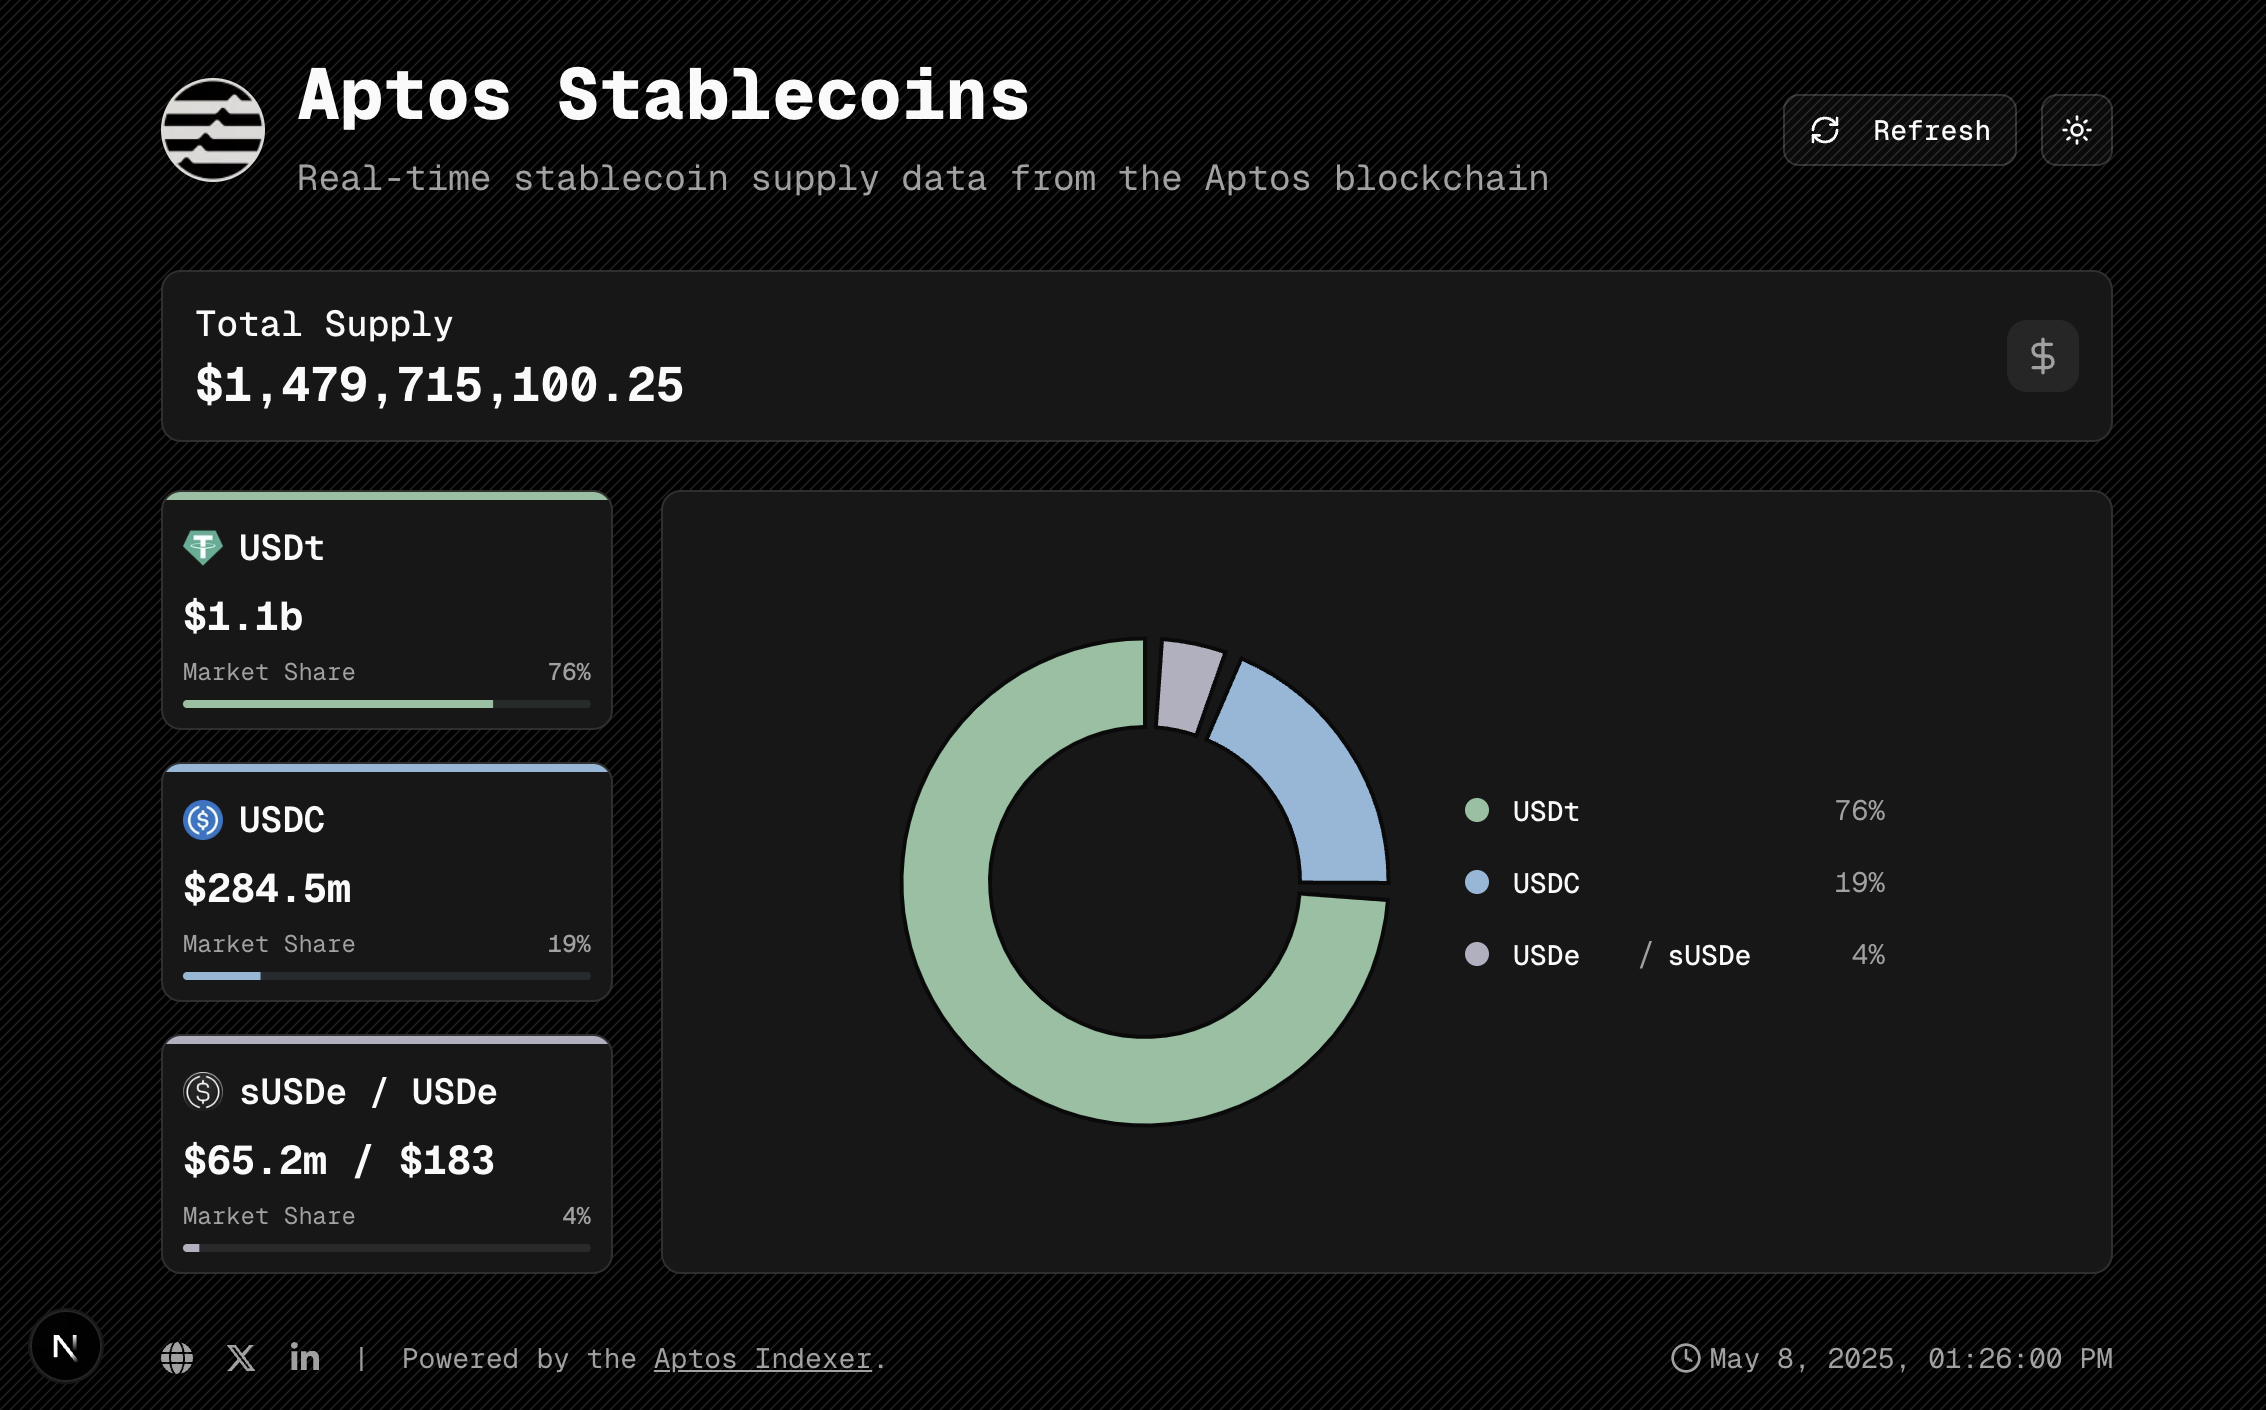
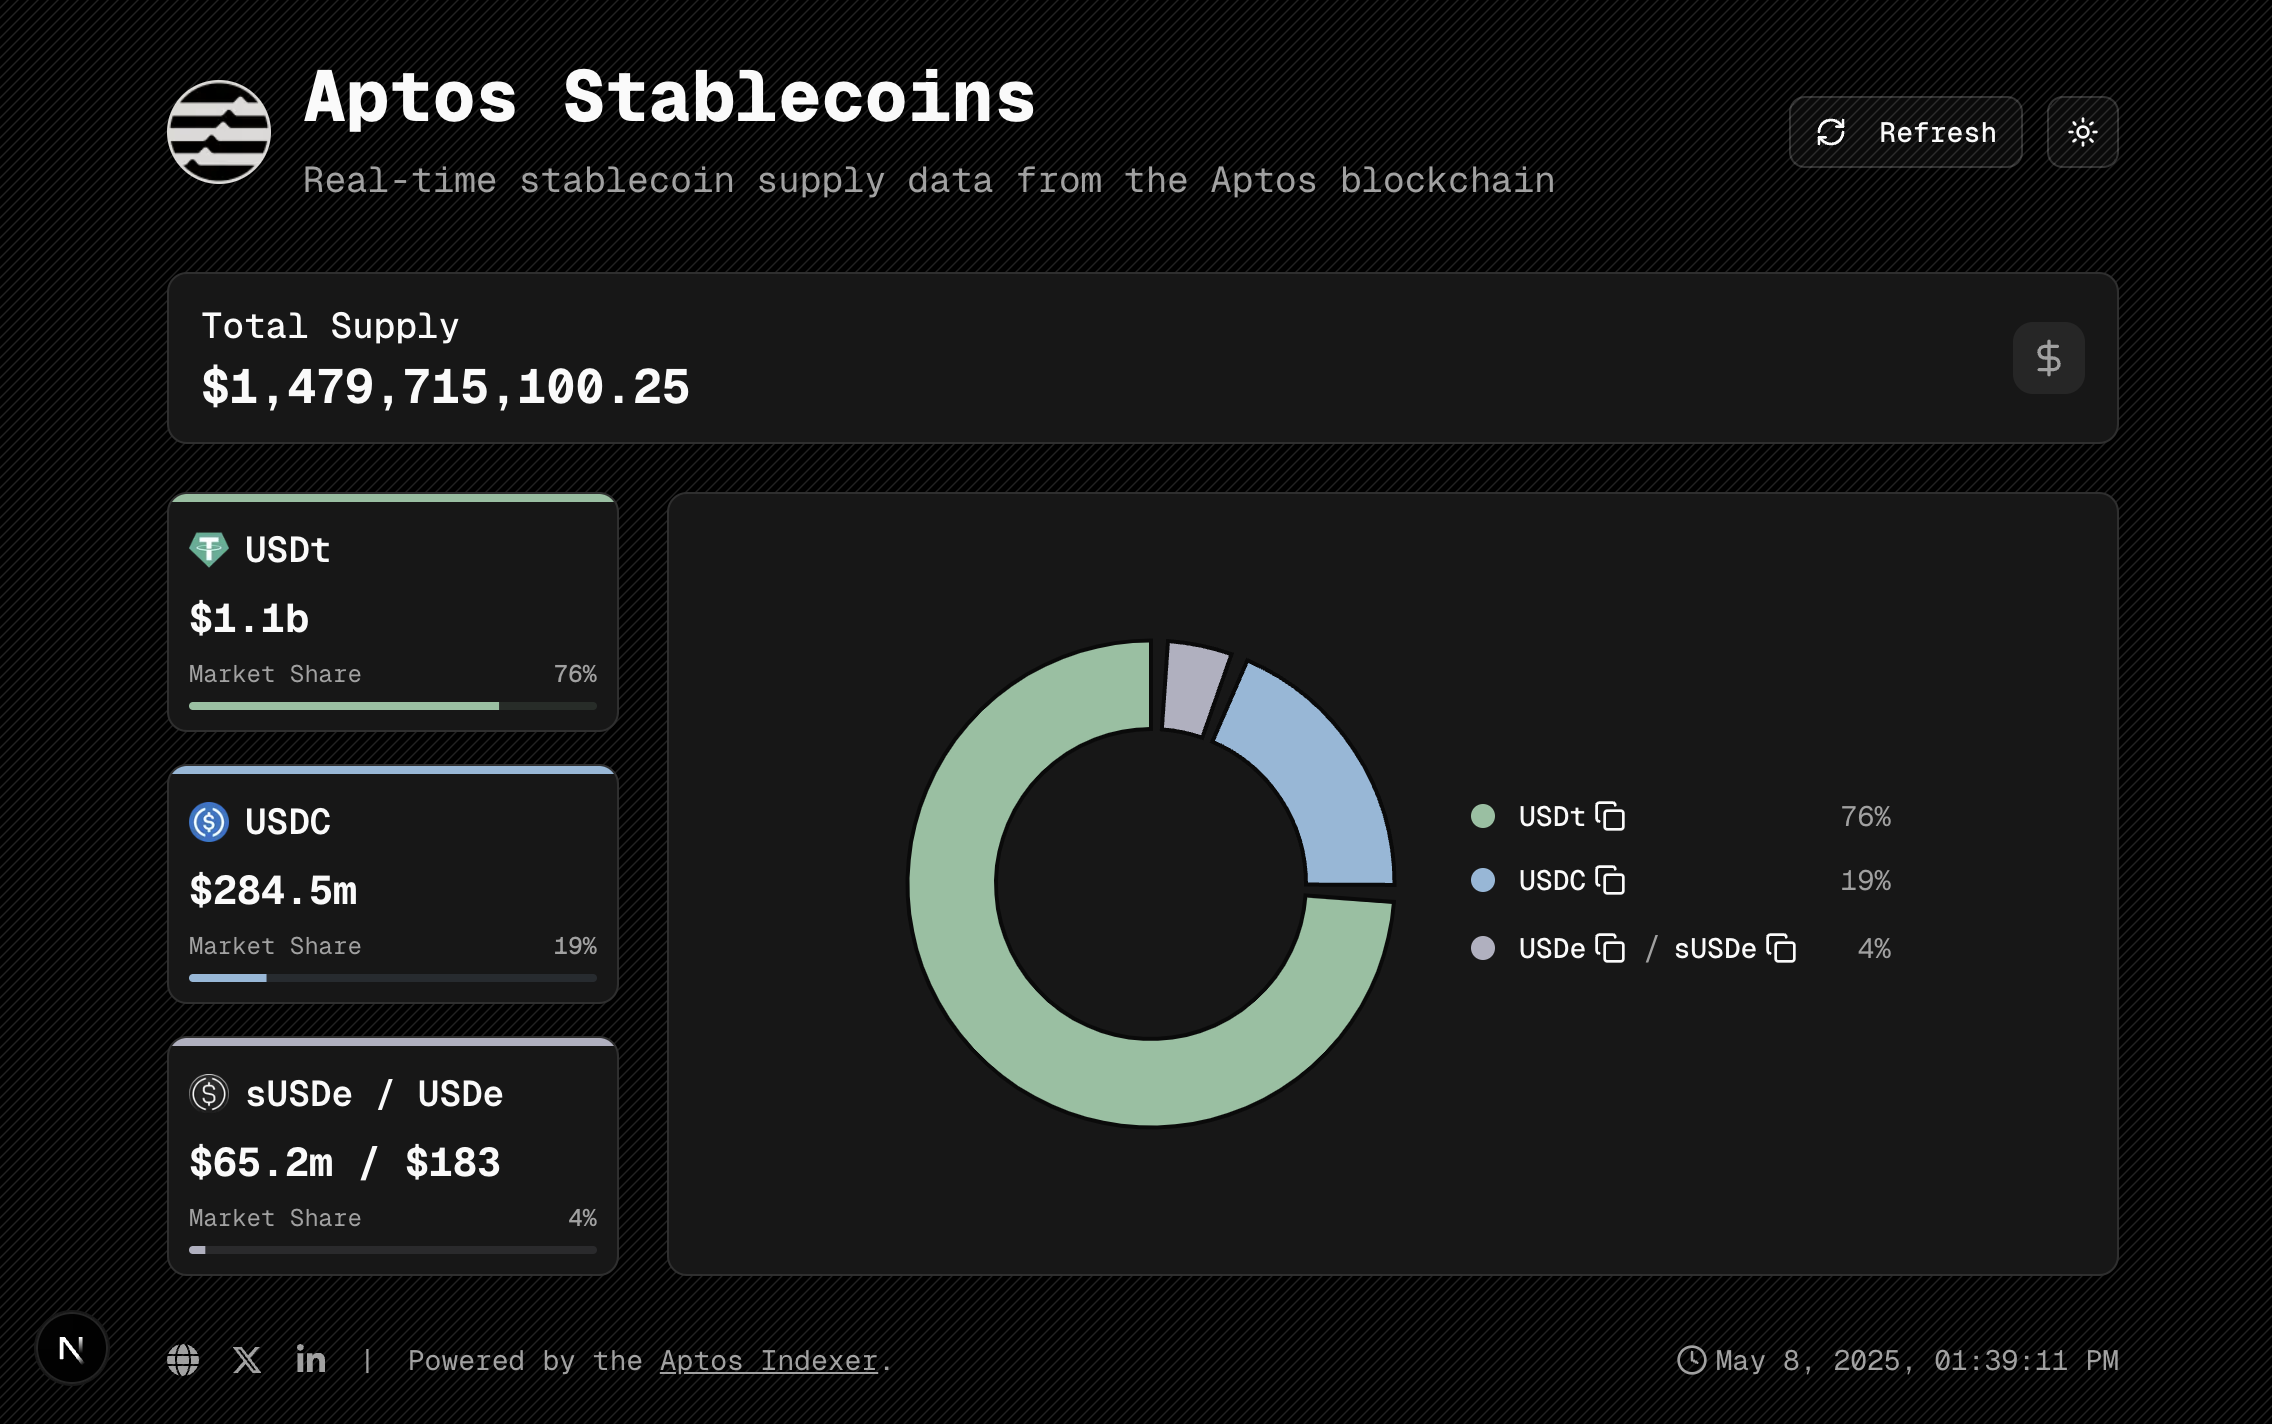
commit

diff --git a/components/Chart.tsx b/components/Chart.tsx
@@ -13,6 +13,12 @@ import { toast } from 'sonner';
 import { useWindowSize } from '@/hooks/useWindowSize';
 import { Button } from '@/components/ui/button';
 import { cn } from '@/lib/utils';
+import {
+  Tooltip as UITooltip,
+  TooltipContent,
+  TooltipProvider,
+  TooltipTrigger,
+} from "@/components/ui/tooltip";
 
 export interface Token {
   symbol: string;
@@ -100,25 +106,34 @@ const TokenNameCopy: React.FC<{
   }
 
   return (
-    <span className="relative inline-block">
-      <span 
-        onClick={() => handleCopy(address, symbol)}
-        className="text-sm font-medium cursor-pointer hover:text-primary after:absolute after:bottom-0 after:left-0 after:right-0 after:h-[1px] after:bg-primary after:scale-x-0 hover:after:scale-x-100 after:transition-transform after:origin-left"
-      >
-        {symbol}
-      </span>
-      <Button
-        size="icon"
-        variant="ghost"
-        className="h-5 w-5 ml-0.5 p-0 opacity-0 hover:opacity-100 inline-flex align-middle"
-        onClick={(e) => {
-          e.stopPropagation();
-          handleCopy(address, symbol);
-        }}
-      >
-        <Copy className="h-3 w-3" />
-      </Button>
-    </span>
+    <TooltipProvider>
+      <UITooltip>
+        <TooltipTrigger asChild>
+          <span className="relative inline-flex items-center group cursor-pointer">
+            <span 
+              onClick={() => handleCopy(address, symbol)}
+              className="text-sm font-medium group-hover:text-primary after:absolute after:bottom-0 after:left-0 after:right-0 after:h-[1px] after:bg-primary after:scale-x-0 group-hover:after:scale-x-100 hover:after:scale-x-100 after:transition-transform after:origin-left"
+            >
+              {symbol}
+            </span>
+            <Button
+              size="icon"
+              variant="ghost"
+              className="h-5 w-5 ml-0.5 p-0 inline-flex align-middle cursor-pointer"
+              onClick={(e) => {
+                e.stopPropagation();
+                handleCopy(address, symbol);
+              }}
+            >
+              <Copy className="h-3 w-3" />
+            </Button>
+          </span>
+        </TooltipTrigger>
+        <TooltipContent>
+          <p>Copy {symbol} Address</p>
+        </TooltipContent>
+      </UITooltip>
+    </TooltipProvider>
   );
 };
 

diff --git a/README.md b/README.md
@@ -7,11 +7,11 @@ A simple API service and frontend that provides real-time information about stab
 
 This API fetches the current circulating supply of major stablecoins on Aptos using the Aptos Indexer GraphQL API. It handles both token standards (legacy coin standard and newer Fungible-Asset standard) in a unified way.
 
-![Aptos Stablecoins Dashboard](page.png)
+![Aptos Stablecoins Dashboard](/public/page.png)
 
 You can view detailed information about each stablecoin by clicking on its card:
 
-![Detailed stablecoin information dialog](dialog.png)
+![Detailed stablecoin information dialog](/public/dialog.png)
 
 ## Supported Stablecoins
 
